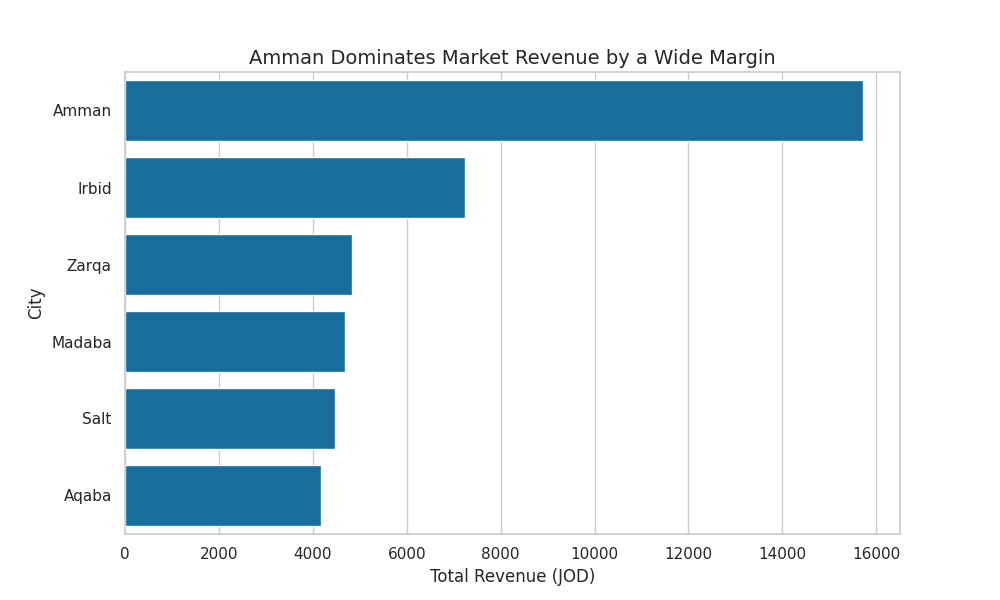
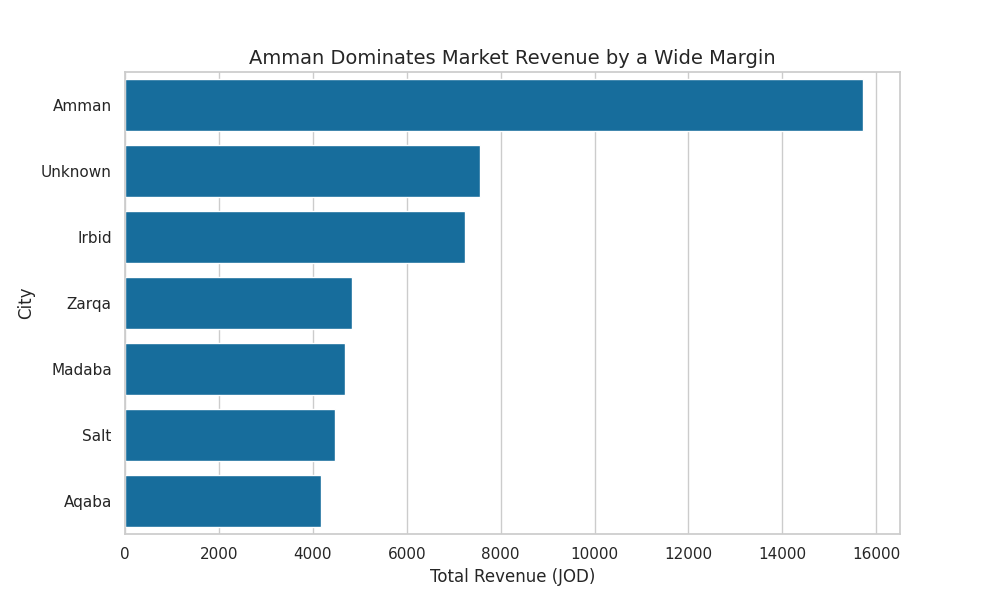
fix: handle null city values and clean data filtering logic in analysis pipeline

diff --git a/analysis.py b/analysis.py
@@ -47,16 +47,20 @@ def extract_data(engine):
     for table in tables:
         data_dict[table] = pd.read_sql_table(table, engine)
     
-    # Filtering: Remove cancelled orders
+    # 1. Fix: Handle NULL city values
+    data_dict['customers']['city'] = data_dict['customers']['city'].fillna('Unknown')
+
+    # 2. Fix: Remove cancelled orders
     data_dict['orders'] = data_dict['orders'][data_dict['orders']['status'] != 'cancelled']
     
-    # Filtering: Remove suspicious quantities (> 100)
+    # 3. Fix: Remove suspicious quantities (> 100)
     data_dict['order_items'] = data_dict['order_items'][data_dict['order_items']['quantity'] <= 100]
     
     # Ensure order_items only are for non-cancelled orders
     data_dict['order_items'] = data_dict['order_items'][data_dict['order_items']['order_id'].isin(data_dict['orders']['order_id'])]
     
     return data_dict
+
 
 
 def compute_kpis(data_dict):
